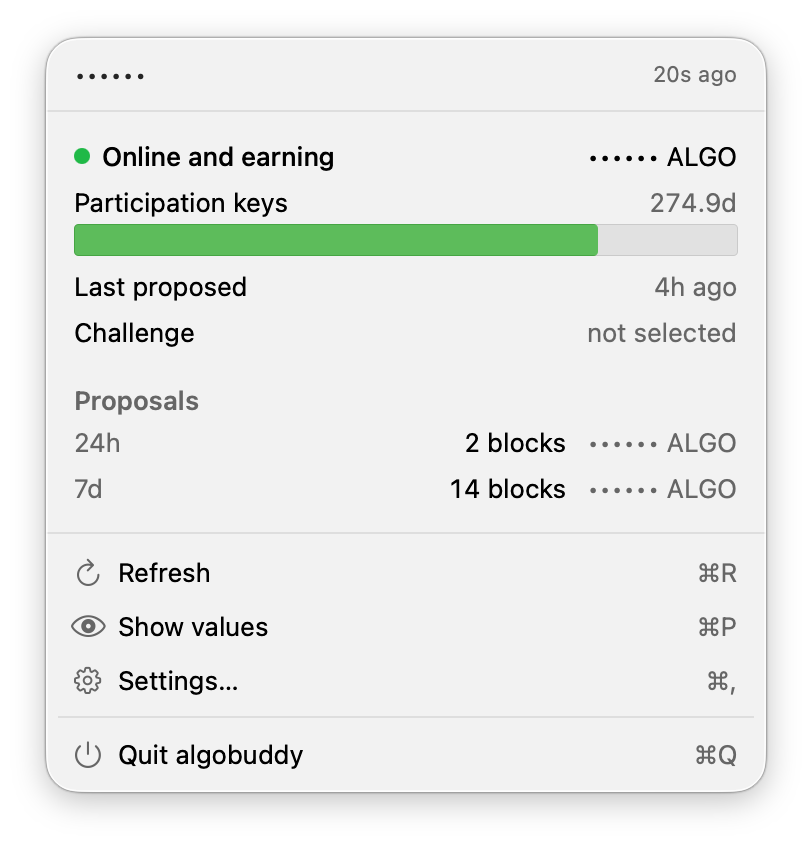
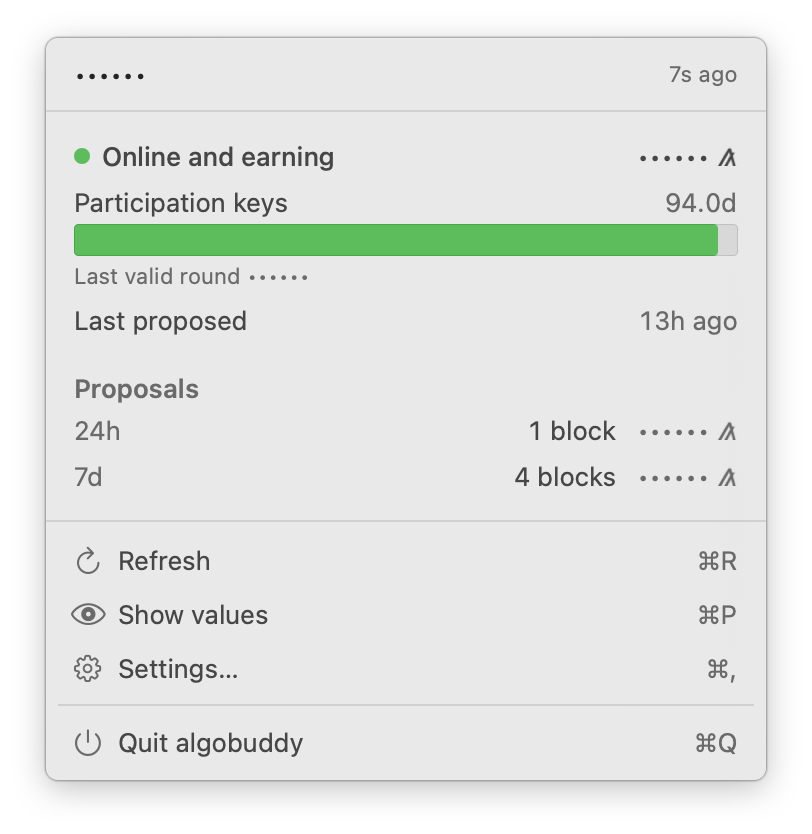
fix(app): keep the menu bar width and mask the round when hiding (#44)

diff --git a/Sources/AlgobuddyApp/AppModel.swift b/Sources/AlgobuddyApp/AppModel.swift
@@ -43,9 +43,10 @@ final class AppModel {
     /// row watches nothing, which is how "no account" is expressed.
     var addressDrafts = [AddressDraft()]
 
-    /// Replaces the account's address and its ALGO figures with bullets in the
-    /// panel and the menu bar, for screen sharing, screenshots, or simply not
-    /// wanting a balance on display all day.
+    /// Replaces the account's address, its ALGO figures and its keys' last
+    /// valid round, which names one key registration and so the account, with
+    /// bullets in the panel and the menu bar, for screen sharing, screenshots,
+    /// or simply not wanting a balance on display all day.
     ///
     /// This hides values from onlookers and nothing more. It is not a security
     /// control, and there is nothing here to secure: the address is public
@@ -252,8 +253,25 @@ final class AppModel {
         return figures.isEmpty ? nil : figures.joined(separator: MenuBar.separator)
     }
 
-    /// A metric's figure from the data on display, or nil while it has none.
+    /// How wide the mask over the earnings is drawn: as wide as the figure it
+    /// hides, or as that figure's stand-in, so hiding values moves neither the
+    /// item nor the panel that hangs from it.
+    var menuBarMaskWidth: CGFloat? {
+        guard valuesHidden, metrics.contains(.earned24h) else { return nil }
+        let hidden = unmaskedFigure(.earned24h) ?? standInShape(.earned24h)
+        return MenuBarImage.width(of: hidden.replacingOccurrences(of: " \(MenuBar.algo)", with: ""))
+    }
+
+    /// A metric's figure from the data on display, masked while values are
+    /// hidden, or nil while it has none.
     private func menuBarFigure(_ metric: MenuBarMetric) -> String? {
+        guard metric == .earned24h, valuesHidden else { return unmaskedFigure(metric) }
+        return unmaskedFigure(metric).map { _ in Self.maskedEarned }
+    }
+
+    /// A metric's figure as it reads with values shown, or nil while it has
+    /// none.
+    private func unmaskedFigure(_ metric: MenuBarMetric) -> String? {
         guard let update = display else { return nil }
         let portfolio = update.portfolio
         // Silent unless every account's proposals are current, so neither a
@@ -273,9 +291,7 @@ final class AppModel {
             return showsRewards ? "\(portfolio.proposals24h) blk" : nil
         case .earned24h:
             guard showsRewards else { return nil }
-            return valuesHidden
-                ? Self.maskedEarned
-                : "\(Format.algos(portfolio.earned24h, decimals: 1)) \(MenuBar.algo)"
+            return "\(Format.algos(portfolio.earned24h, decimals: 1)) \(MenuBar.algo)"
         }
     }
 
@@ -286,11 +302,16 @@ final class AppModel {
     private func menuBarStandIn(_ metric: MenuBarMetric) -> String {
         // The mask hides any figure, so it stands in for one as well.
         if metric == .earned24h, valuesHidden { return Self.maskedEarned }
-        return menuBarShapes[metric] ?? FigureShape.of(Self.typicalFigure(metric)) ?? ""
+        return standInShape(metric)
+    }
+
+    private func standInShape(_ metric: MenuBarMetric) -> String {
+        menuBarShapes[metric] ?? FigureShape.of(Self.typicalFigure(metric)) ?? ""
     }
 
     /// Masked rather than dropped: removing the segment would shrink the item
-    /// and shove every icon to its left along.
+    /// and shove every icon to its left along. The image sets the bullets as
+    /// wide as the figure they hide; see `menuBarMaskWidth`.
     private static let maskedEarned = "\(Format.hidden(4)) \(MenuBar.algo)"
 
     /// A figure of the usual width for each metric, whose shape stands in for

diff --git a/Sources/AlgobuddyApp/MenuBarImage.swift b/Sources/AlgobuddyApp/MenuBarImage.swift
@@ -26,9 +26,15 @@ enum MenuBarImage {
     /// baseline.
     private static let baselineLift: CGFloat = 0.5
 
-    /// - Parameter description: What VoiceOver calls the item. The status item
-    ///   takes its name from its image's description, so the image carries it.
-    static func render(symbol name: String, text: String?, description: String) -> NSImage {
+    /// - Parameters:
+    ///   - maskWidth: How wide the text's mask is drawn: as wide as the figure
+    ///     it hides, so hiding values moves neither the item nor the panel that
+    ///     hangs from it.
+    ///   - description: What VoiceOver calls the item. The status item takes
+    ///     its name from its image's description, so the image carries it.
+    static func render(
+        symbol name: String, text: String?, maskWidth: CGFloat? = nil, description: String
+    ) -> NSImage {
         // Alone, the symbol is what the status item would show anyway.
         guard let text else {
             return NSImage(systemSymbolName: name, accessibilityDescription: description)
@@ -37,9 +43,8 @@ enum MenuBarImage {
         let symbol = NSImage(systemSymbolName: name, accessibilityDescription: nil) ?? NSImage()
 
         let font = Self.font
-        let lines = text.components(separatedBy: MenuBar.algo).map { run in
-            CTLineCreateWithAttributedString(
-                NSAttributedString(string: run, attributes: [.font: font]))
+        let lines = text.components(separatedBy: MenuBar.algo).map {
+            line($0, font: font, maskWidth: maskWidth)
         }
         let textWidth =
             lines.reduce(0) { $0 + CTLineGetTypographicBounds($1, nil, nil, nil) }
@@ -78,6 +83,28 @@ enum MenuBarImage {
         image.isTemplate = true
         image.accessibilityDescription = description
         return image
+    }
+
+    /// How wide `text` is set in the menu bar's font.
+    static func width(of text: String) -> CGFloat {
+        CTLineGetTypographicBounds(line(text, font: font, maskWidth: nil), nil, nil, nil)
+    }
+
+    /// One run of the text, set as a line. Given a `maskWidth`, its mask, the
+    /// bullets `Format.hidden` writes, is set as many bullets as fit that
+    /// width, spaced to fill it exactly.
+    private static func line(_ run: String, font: NSFont, maskWidth: CGFloat?) -> CTLine {
+        let string = NSMutableAttributedString(string: run, attributes: [.font: font])
+        if let maskWidth, let mask = run.firstRange(of: /•+/) {
+            let bullet = width(of: Format.hidden(1))
+            let count = max(1, Int((maskWidth / bullet).rounded()))
+            let spacing = (maskWidth - CGFloat(count) * bullet) / CGFloat(count)
+            string.replaceCharacters(
+                in: NSRange(mask, in: run),
+                with: NSAttributedString(
+                    string: Format.hidden(count), attributes: [.font: font, .kern: spacing]))
+        }
+        return CTLineCreateWithAttributedString(string)
     }
 }
 

diff --git a/Sources/AlgobuddyApp/PanelView.swift b/Sources/AlgobuddyApp/PanelView.swift
@@ -591,8 +591,11 @@ struct AccountCard: View {
                     level: level(for: .keyExpiry),
                     // Exact, where the duration is the round clock's estimate:
                     // new keys are registered against this round, with the
-                    // lookback the alert names to spare.
-                    caption: "Last valid round \(Format.exactRound(expiry.lastValid))")
+                    // lookback the alert names to spare. Masked with the other
+                    // values, since it names the key registration, and so the
+                    // account, as plainly as the address.
+                    caption: "Last valid round "
+                        + (isHidden ? Format.hidden() : Format.exactRound(expiry.lastValid)))
             }
 
             ValueRow(title: "Last proposed", detail: lastProposedText)

diff --git a/Sources/AlgobuddyApp/SettingsView.swift b/Sources/AlgobuddyApp/SettingsView.swift
@@ -827,7 +827,8 @@ struct MenuBarMetricPicker: View {
         // the threshold and the caption all measure it.
         let name = MenuBar.spokenName(health: model.health, text: model.menuBarFigures)
         let item = MenuBarImage.render(
-            symbol: model.health.symbol, text: model.menuBarText, description: name)
+            symbol: model.health.symbol, text: model.menuBarText,
+            maskWidth: model.menuBarMaskWidth, description: name)
         let width = MenuBar.width(of: item)
         let isWide = width > MenuBar.comfortableWidth
 

diff --git a/Sources/AlgobuddyApp/Presentation.swift b/Sources/AlgobuddyApp/Presentation.swift
@@ -95,7 +95,8 @@ enum Spacing {
     static let edge: CGFloat = 14
 }
 
-/// Whether the panel masks the addresses and ALGO amounts.
+/// Whether the panel masks the addresses, the ALGO amounts and the keys' last
+/// valid round.
 ///
 /// An environment value rather than a parameter threaded into each card: a
 /// default-false parameter makes omission compile silently, so a new card that

diff --git a/Sources/AlgobuddyApp/AlgobuddyApp.swift b/Sources/AlgobuddyApp/AlgobuddyApp.swift
@@ -54,6 +54,7 @@ struct MenuBarLabel: View {
         Image(
             nsImage: MenuBarImage.render(
                 symbol: model.health.symbol, text: model.menuBarText,
+                maskWidth: model.menuBarMaskWidth,
                 description: MenuBar.spokenName(health: model.health, text: model.menuBarFigures)))
     }
 }
